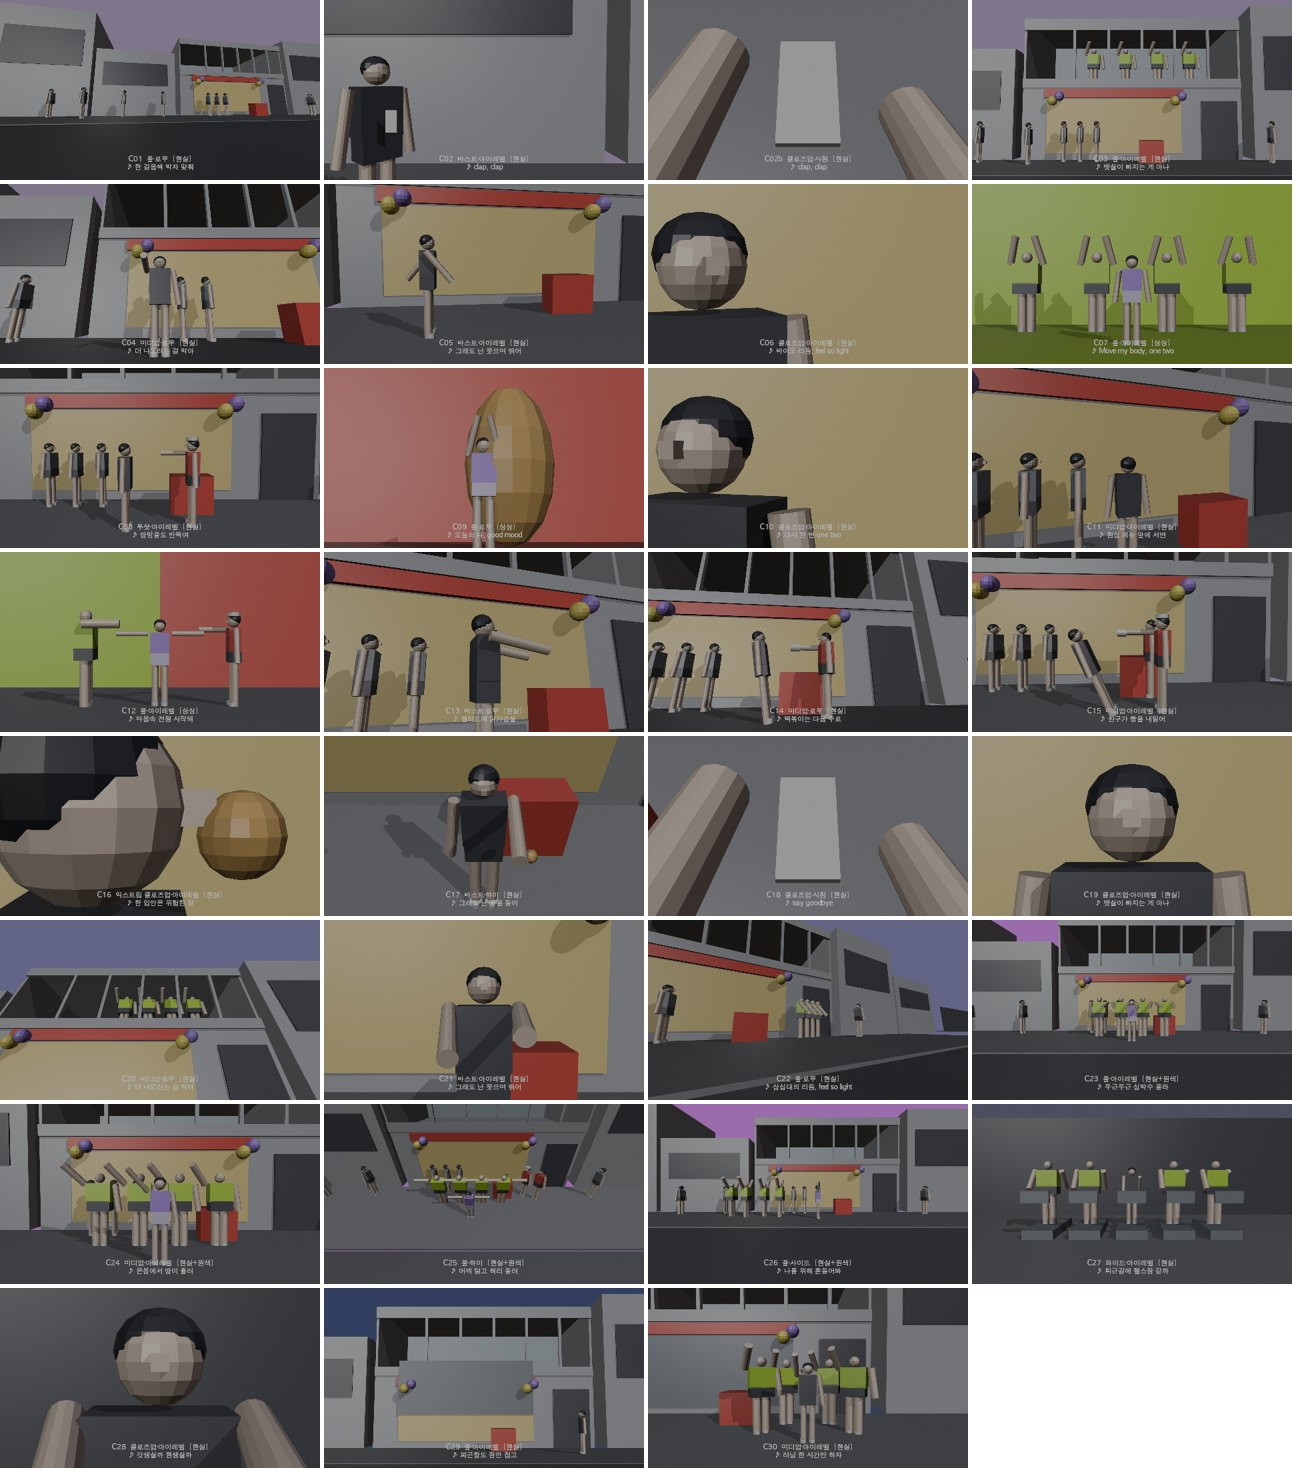
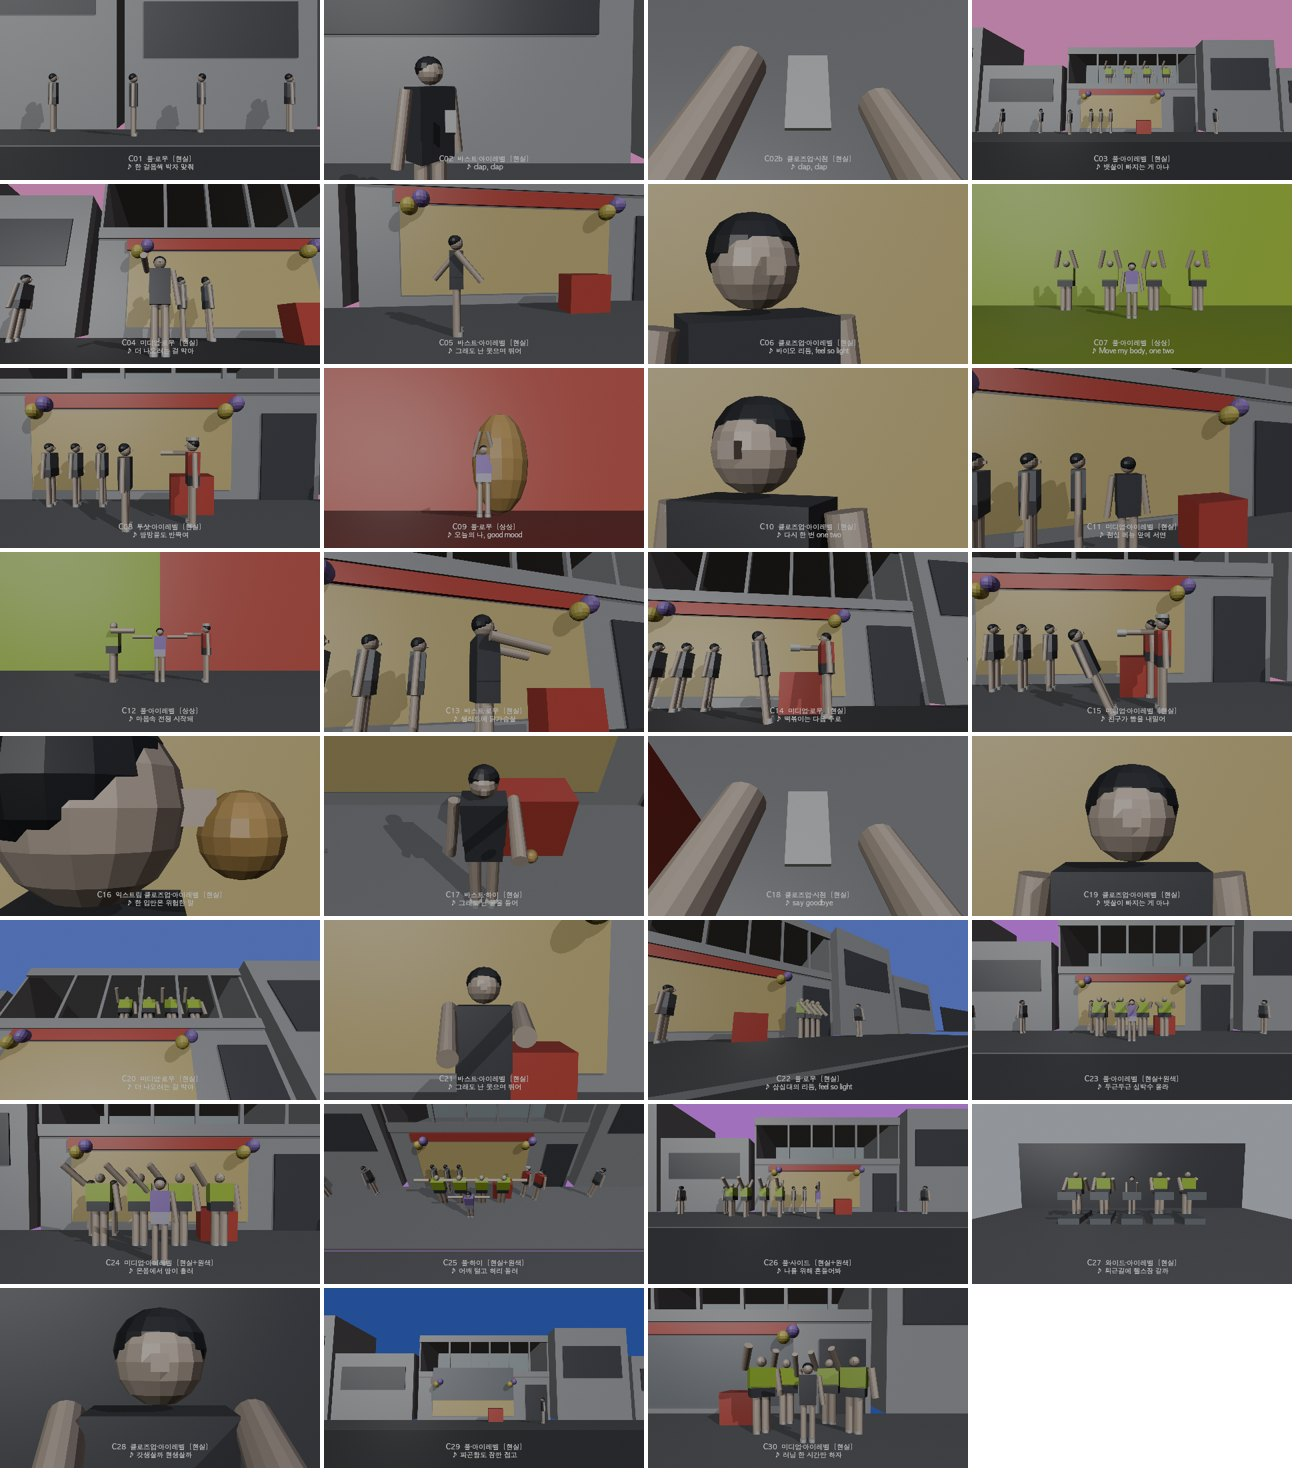
docs: 반값 치킨 16:9 프리비즈 — 중복 보정 제거, 팝 하늘색·C01 망원 반영

diff --git a/claude_skills_outputs/marketing/previz/build_previz_169.py b/claude_skills_outputs/marketing/previz/build_previz_169.py
@@ -172,7 +172,7 @@ def key_world(f, rgb):
 
 # ── 컷 정의 (30컷, 샷리스트 v2) ───────────────────────────────────────────
 # cam: (카메라 위치, 바라볼 점, 렌즈 mm)
-DUSK, DUSK2, DROP, GYM, NIGHT = (0.22, 0.17, 0.27), (0.13, 0.12, 0.24), (0.38, 0.10, 0.48), (0.08, 0.08, 0.12), (0.04, 0.05, 0.12)
+DUSK, DUSK2, DROP, GYM, NIGHT = (0.62, 0.16, 0.42), (0.08, 0.12, 0.50), (0.45, 0.08, 0.70), (0.30, 0.32, 0.36), (0.03, 0.06, 0.30)
 M_WIN = [(2.0, 0.6, 3.3), (3.5, 0.6, 3.3), (5.0, 0.6, 3.3), (6.5, 0.6, 3.3)]
 CUTS = [
  # id, t0, t1, 샷, 앵글, 가사, 현실/상상, 배우 배치, 카메라, 하늘
@@ -213,20 +213,7 @@ END_T1 = 79.6
 # 16:9 구도 보정: 가로 여백에 맞춰 화각과 인물 위치를 다시 잡음
 LENS_X = {"C03": 1.67, "C29": 1.67, "C07": 1.6, "C09": 1.6, "C12": 1.6, "C27": 1.5, "C02b": 1.4, "C18": 1.4}
 SHIFT_X = {"C02": 0.45, "C05": 0.45, "C06": 0.13, "C10": 0.13}
-CAM_SET = {"C01": ((-4.0, -9.0, 0.5), (-3.0, -2.0, 1.6), 24)}
-def fix169(row):
-    row = list(row); cid = row[0]; cloc, ctgt, lens = row[8]
-    if cid in CAM_SET: cloc, ctgt, lens = CAM_SET[cid]
-    lens *= LENS_X.get(cid, 1)
-    d = SHIFT_X.get(cid, 0)
-    row[8] = ((cloc[0] + d, cloc[1], cloc[2]), (ctgt[0] + d, ctgt[1], ctgt[2]), lens)
-    return tuple(row)
-CUTS = [fix169(r) for r in CUTS]
-
-# 16:9 구도 보정: 가로 여백에 맞춰 화각과 인물 위치를 다시 잡음
-LENS_X = {"C03": 1.67, "C29": 1.67, "C07": 1.6, "C09": 1.6, "C12": 1.6, "C27": 1.5, "C02b": 1.4, "C18": 1.4}
-SHIFT_X = {"C02": 0.45, "C05": 0.45, "C06": 0.13, "C10": 0.13}
-CAM_SET = {"C01": ((-4.0, -9.0, 0.5), (-3.0, -2.0, 1.6), 24)}
+CAM_SET = {"C01": ((-6.4, -14.0, 1.1), (-6.4, -2.0, 1.2), 90)}
 def fix169(row):
     row = list(row); cid = row[0]; cloc, ctgt, lens = row[8]
     if cid in CAM_SET: cloc, ctgt, lens = CAM_SET[cid]
